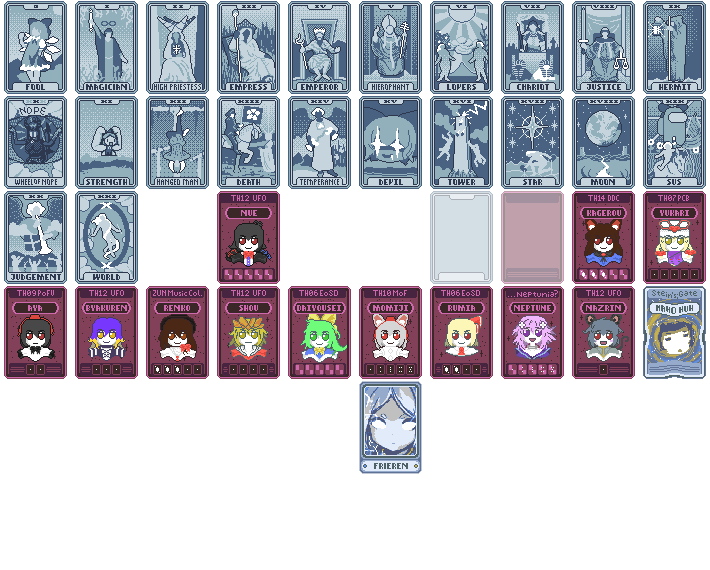
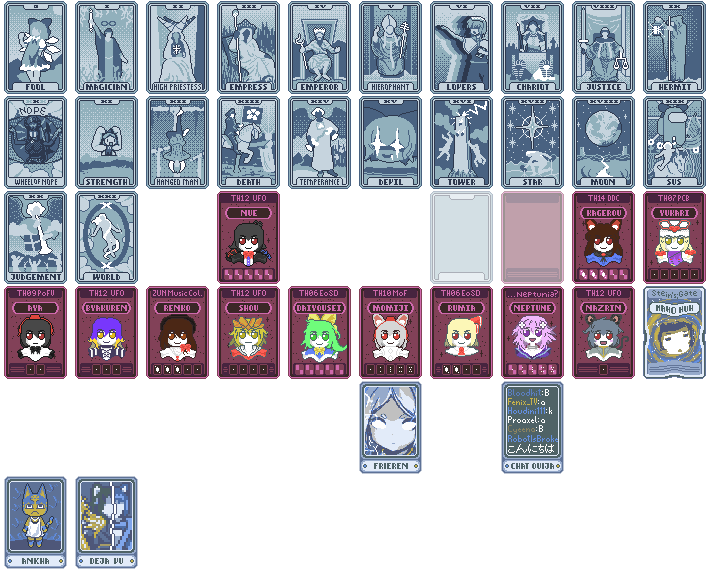
Added Retextures + More
Added retextures for Lovers, Ouija, Ankh & Deja Vu. Minor adjustments to Riff-Raff.

Related adjustments.

Changed region(s): [[0.0, 0.8351, 0.2169, 1.0], [0.6817, 0.6561, 0.8056, 0.8351], [0.5887, 0.0, 0.7127, 0.1491]]

diff --git a/README.md b/README.md
@@ -20,9 +20,9 @@ DaemonTsun's art contributions are public domain - Some memes or pictures are no
   - All Seals
   - All Planet Cards
   - 11 Booster Packs
-  - 5 Tarot Cards
+  - 6 Tarot Cards
+  - 6 Spectral Cards
   - 3 Decks
-  - 3 Spectral Cards
   - 1 Enhancement
   - The title screen
 
@@ -31,8 +31,8 @@ DaemonTsun's art contributions are public domain - Some memes or pictures are no
   - All Planet Cards
   - Most blinds
   - A significant amount of retextured Jokers
-  - 5 Tarot Cards
-  - 3 Spectral Cards
+  - 6 Tarot Cards
+  - 6 Spectral Cards
   - 1 Enhancement
 
 - Adds:
